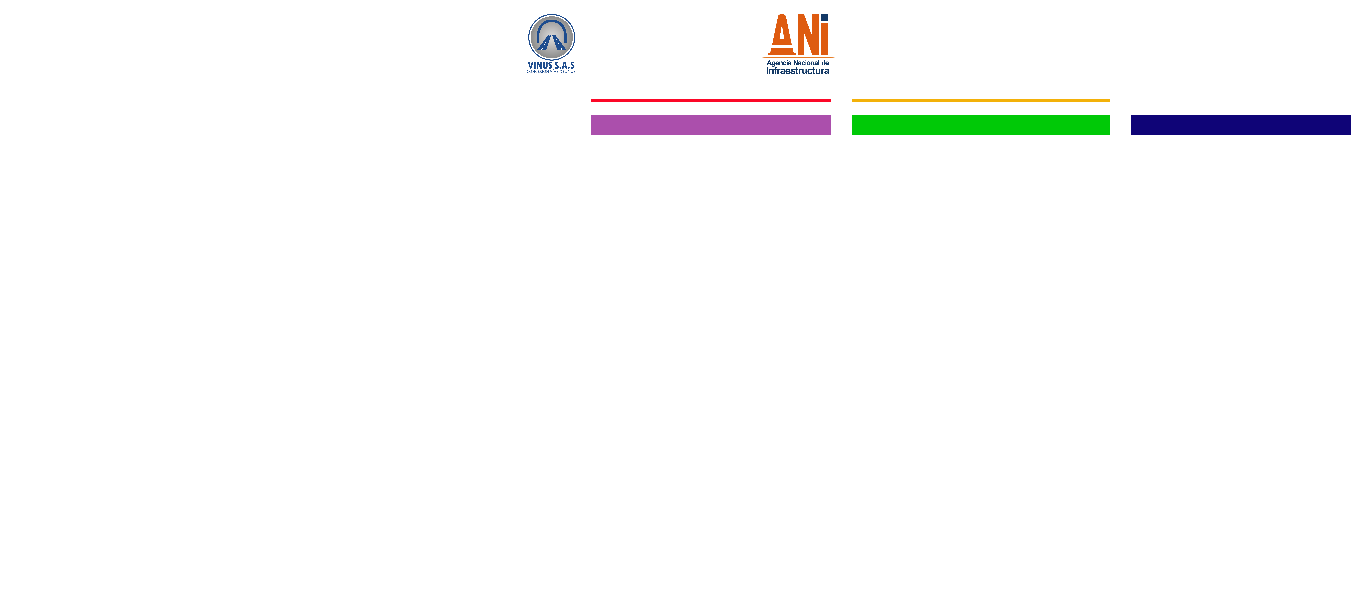
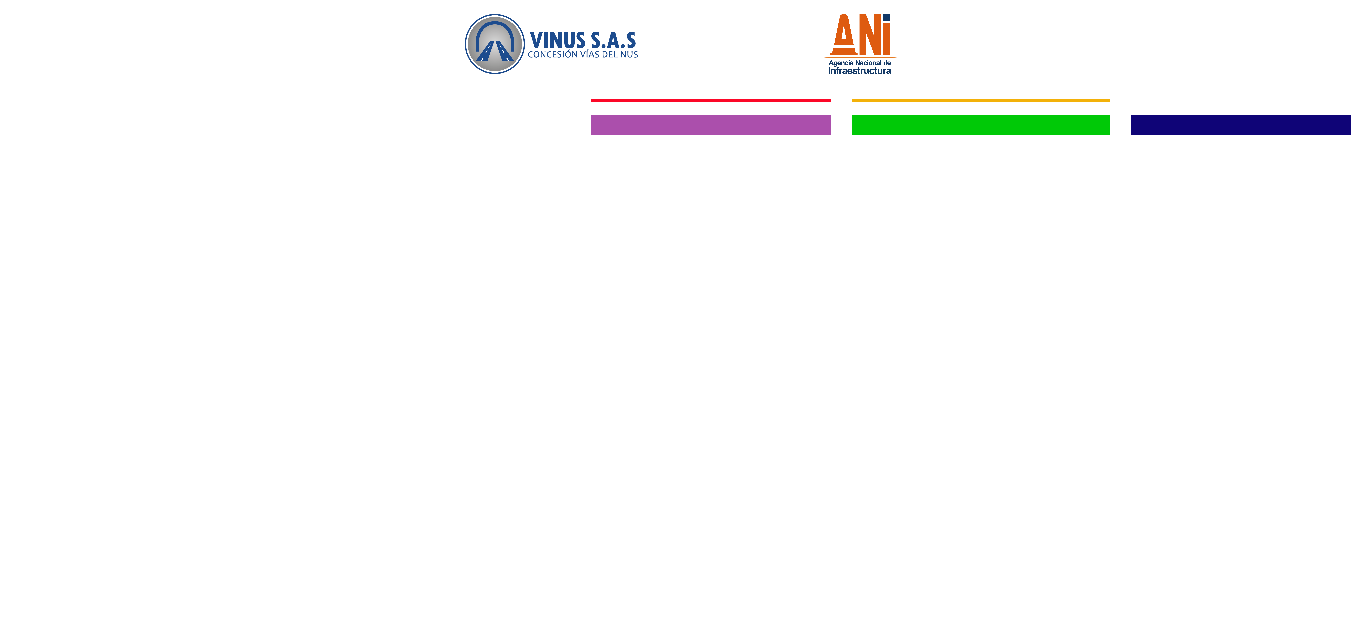
Correccion ficha ani

Changed region(s): [[0.4305, 0.1503, 1.0, 0.2404], [0.5534, 0.0, 0.6764, 0.1202], [0.3382, 0.0, 0.4612, 0.1202]]

diff --git a/application/views/informes/gestion_predial/formato_ani_excel.php b/application/views/informes/gestion_predial/formato_ani_excel.php
@@ -693,7 +693,7 @@ $objPHPExcel->getActiveSheet()->getStyle("N{$fila}:Z{$fila}")->applyFromArray($b
 $objPHPExcel->getActiveSheet()->getStyle("AB{$fila}")->applyFromArray($borde_puntos_externo);
 
 // La fila a asignarse es la suma de donde arranca hasta el total
-$fila = 37 + $total_filas; 
+$fila = 37 + $total_filas;
 
 // Tamaño de fila
 $objPHPExcel->getActiveSheet()->getRowDimension($fila)->setRowHeight(3);
@@ -800,7 +800,7 @@ $fila_elaboro = $fila;
 $objPHPExcel->getActiveSheet()->getRowDimension($fila)->setRowHeight(3); $fila++;
 
 $fila_area_sobrante = $fila;
-$fila_area_total_requerida = $fila + 1;
+$fila_area_total_requerida = $fila - 4;
 
 // Celdas a combinar
 $objPHPExcel->getActiveSheet()->mergeCells("M{$fila}:O{$fila}");

diff --git a/application/views/plantillas/tabla-convenciones.php b/application/views/plantillas/tabla-convenciones.php
@@ -55,7 +55,7 @@
 <div id="convenciones">
     <div class="cabecera">
         <div>
-            <img src="<?php  echo base_url()."img/logo_vinus.png" ?>" alt="VINUS" height="60px" />
+            <img src="<?php  echo base_url()."img/logo_vinus_horizontal.png" ?>" alt="VINUS" height="60px" />
         </div>
 
         <div>

diff --git a/application/views/plantillas/kml-plantilla.php b/application/views/plantillas/kml-plantilla.php
@@ -235,8 +235,10 @@
 <!-- Vertices -->
 <Folder>
     <name>Vértices</name>
+    <visibility>0</visibility>
 <?php foreach ($coordenadas as $punto): ?>
     <Placemark>
+    <visibility>0</visibility>
     <name><?php echo $punto["punto"]; ?></name>
     <styleUrl>#msn_placemark_circle</styleUrl>
     <Point>
